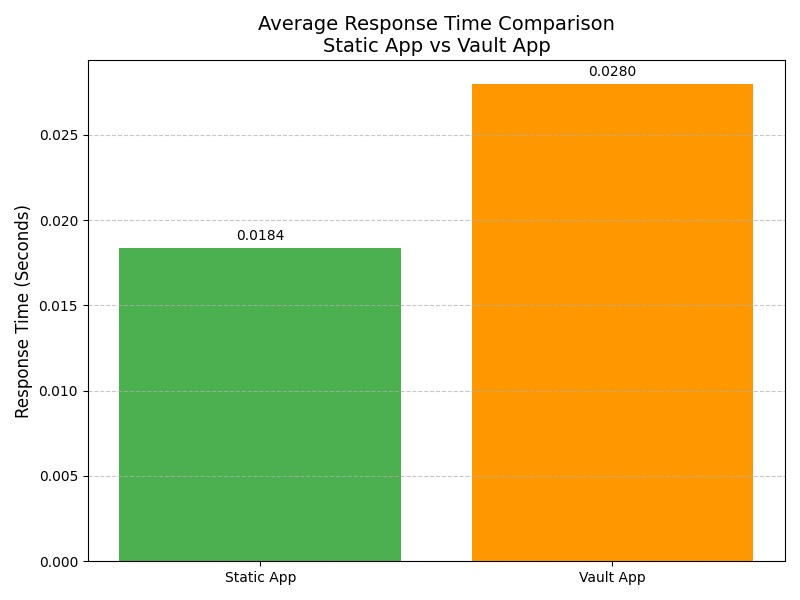
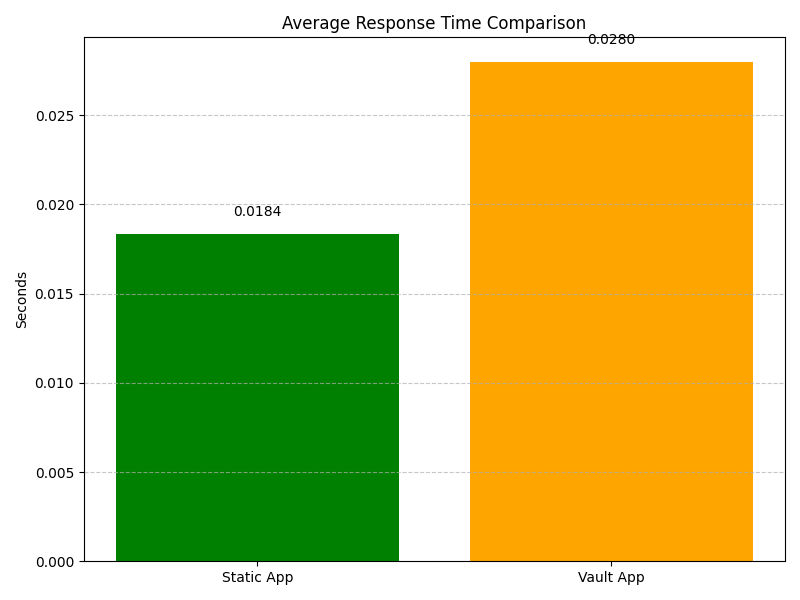
update plot metriks

diff --git a/plot_metrics.py b/plot_metrics.py
@@ -1,84 +1,237 @@
 import os
-import json
+import csv
 import glob
 import matplotlib.pyplot as plt
+import json
 
 DATA_DIR = 'data'
 RESULTS_DIR = os.path.join(DATA_DIR, 'results')
+PERFORMANCE_DIR = os.path.join(DATA_DIR, 'performance-results')
+SECURITY_DIR = os.path.join(DATA_DIR, 'security-results')
 
-# Buat folder results jika belum ada
 os.makedirs(RESULTS_DIR, exist_ok=True)
 
-def load_json(file_pattern):
-    files = glob.glob(os.path.join(DATA_DIR, file_pattern))
-    return [json.load(open(f)) for f in files]
+# Load CSV Benchmark File
+def load_benchmark_csv():
+    files = glob.glob(os.path.join(PERFORMANCE_DIR, 'benchmark_data_*.csv'))
+    if not files:
+        raise FileNotFoundError("❌ Benchmark CSV file not found.")
+    csv_file = sorted(files)[-1]  # ambil file terbaru
 
-# Load benchmark summaries
-benchmark_summaries = load_json('benchmark_summary_*.json')
-benchmark_data = benchmark_summaries[0]['statistics']
+    iterations = []
+    static_times = []
+    vault_times = []
+    overheads = []
+    overhead_percents = []
+    rotations = []
 
-# Plot overhead comparison
-def plot_overhead(data):
+    with open(csv_file, 'r') as f:
+        reader = csv.DictReader(f)
+        for row in reader:
+            iterations.append(int(row['iteration']))
+            static_times.append(float(row['static_time']))
+            vault_times.append(float(row['vault_time']))
+            overheads.append(float(row['overhead_seconds']))
+            overhead_percents.append(float(row['overhead_percentage']))
+
+            if row['rotation_performed'].lower() == 'true' and row['rotation_duration'] != 'null':
+                rotations.append(float(row['rotation_duration']))
+
+    return iterations, static_times, vault_times, overheads, overhead_percents, rotations
+
+# Plot Average Response Time & Overhead
+def plot_overhead(static_times, vault_times, overhead_percents):
+    static_avg = sum(static_times) / len(static_times)
+    vault_avg = sum(vault_times) / len(vault_times)
+    overhead_avg = sum(overhead_percents) / len(overhead_percents)
+
+    # Bar chart average response time
     apps = ['Static App', 'Vault App']
-    avg_times = [data['static_app']['avg'], data['vault_app']['avg']]
+    avg_times = [static_avg, vault_avg]
 
-    plt.figure(figsize=(6,4))
-    plt.bar(apps, avg_times, color=['green', 'orange'])
+    plt.figure(figsize=(8, 6))
+    bars = plt.bar(apps, avg_times, color=['green', 'orange'])
     plt.title('Average Response Time Comparison')
     plt.ylabel('Seconds')
+    plt.grid(axis='y', linestyle='--', alpha=0.7)
+
+    for bar in bars:
+        yval = bar.get_height()
+        plt.text(bar.get_x() + bar.get_width()/2, yval + 0.001, f'{yval:.4f}', ha='center', fontsize=10)
+
     plt.tight_layout()
     plt.savefig(os.path.join(RESULTS_DIR, 'avg_response_time.png'))
     plt.close()
 
     # Overhead %
-    plt.figure(figsize=(6,4))
-    overhead = data['overhead']['percentage']
-    plt.bar(['Overhead'], [overhead['avg']], color='red')
+    plt.figure(figsize=(8, 6))
+    plt.bar(['Overhead'], [overhead_avg], color='red')
     plt.title('Vault Overhead (%)')
     plt.ylabel('Percentage')
+    plt.grid(axis='y', linestyle='--', alpha=0.7)
+    plt.text(0, overhead_avg + 1, f'{overhead_avg:.2f}%', ha='center', fontsize=12)
+
     plt.tight_layout()
     plt.savefig(os.path.join(RESULTS_DIR, 'vault_overhead_percentage.png'))
     plt.close()
 
-# Load detailed results for rotation
-benchmark_details = load_json('benchmark_results_*.json')
-rotations = [r['rotation']['duration_seconds'] for r in benchmark_details[0]['results'] if r['rotation']['performed']]
+# Plot Line Chart per Iteration
+def plot_line_chart(iterations, static_times, vault_times):
+    plt.figure(figsize=(12, 6))
+    plt.plot(iterations, static_times, label='Static App', color='green', marker='o')
+    plt.plot(iterations, vault_times, label='Vault App', color='orange', marker='x')
+    plt.title('Response Time per Iteration')
+    plt.xlabel('Iteration')
+    plt.ylabel('Response Time (Seconds)')
+    plt.legend()
+    plt.grid(True, linestyle='--', alpha=0.7)
+    plt.tight_layout()
+    plt.savefig(os.path.join(RESULTS_DIR, 'response_time_per_iteration.png'))
+    plt.close()
 
+# Plot Histogram Distribusi
+def plot_histogram(static_times, vault_times):
+    plt.figure(figsize=(12, 6))
+    plt.hist(static_times, bins=15, alpha=0.7, label='Static App', color='green')
+    plt.hist(vault_times, bins=15, alpha=0.7, label='Vault App', color='orange')
+    plt.title('Response Time Distribution')
+    plt.xlabel('Response Time (Seconds)')
+    plt.ylabel('Frequency')
+    plt.legend()
+    plt.grid(True, linestyle='--', alpha=0.7)
+    plt.tight_layout()
+    plt.savefig(os.path.join(RESULTS_DIR, 'response_time_distribution.png'))
+    plt.close()
+
+# Plot Rotation Time
 def plot_rotation(rotations):
     if not rotations:
         print("No rotation data found.")
         return
-    plt.figure(figsize=(8,4))
-    plt.plot(range(1, len(rotations)+1), rotations, marker='o', linestyle='--')
-    plt.title('Vault Credential Rotation Time')
-    plt.xlabel('Iteration')
-    plt.ylabel('Duration (seconds)')
-    plt.grid(True)
+
+    plt.figure(figsize=(10, 6))
+    plt.plot(range(1, len(rotations) + 1), rotations, marker='o', linestyle='-', color='#2196F3')
+    plt.title('Vault Credential Rotation Time per 10 Iterations')
+    plt.xlabel('Rotation Event')
+    plt.ylabel('Rotation Duration (Seconds)')
+    plt.grid(True, linestyle='--', alpha=0.7)
+
+    for idx, val in enumerate(rotations, 1):
+        plt.text(idx, val + 0.002, f'{val:.4f}', ha='center', fontsize=10)
+
     plt.tight_layout()
     plt.savefig(os.path.join(RESULTS_DIR, 'vault_rotation_time.png'))
     plt.close()
 
-# Gitleaks report comparison
-def count_secrets(file):
-    with open(file) as f:
-        return len(json.load(f))
-
+# Gitleaks report comparison with latest file
 def plot_gitleaks():
-    static = count_secrets(os.path.join(DATA_DIR, 'static-secrets-gitleaks-report.json'))
-    vault = count_secrets(os.path.join(DATA_DIR, 'vault-secrets-gitleaks-report.json'))
-    
-    plt.figure(figsize=(6,4))
-    plt.bar(['Static Secrets', 'Vault Secrets'], [static, vault], color=['crimson', 'blue'])
+    static_files = glob.glob(os.path.join(SECURITY_DIR, 'static-secrets-gitleaks-report_*.json'))
+    vault_files = glob.glob(os.path.join(SECURITY_DIR, 'vault-secrets-gitleaks-report_*.json'))
+
+    if not static_files:
+        print("⚠ Static secrets Gitleaks report not found.")
+        static = 0
+    else:
+        static_file = sorted(static_files)[-1]
+        static = count_secrets(static_file)
+
+    if not vault_files:
+        print("⚠ Vault secrets Gitleaks report not found.")
+        vault = 0
+    else:
+        vault_file = sorted(vault_files)[-1]
+        vault = count_secrets(vault_file)
+
+    plt.figure(figsize=(6, 4))
+    bars = plt.bar(['Static Secrets', 'Vault Secrets'], [static, vault], color=['crimson', 'blue'])
     plt.title('Secrets Leak Detected (Gitleaks)')
     plt.ylabel('Count')
+    plt.grid(axis='y', linestyle='--', alpha=0.7)
+
+    for bar in bars:
+        yval = bar.get_height()
+        plt.text(bar.get_x() + bar.get_width()/2, yval + 0.05, f'{yval}', ha='center', fontsize=12)
+
     plt.tight_layout()
     plt.savefig(os.path.join(RESULTS_DIR, 'secrets_leak_comparison.png'))
     plt.close()
 
-# Run all plots
-plot_overhead(benchmark_data)
+def count_secrets(file):
+    if not os.path.exists(file):
+        print(f"⚠ File not found: {file}. Assuming 0 secrets leaked.")
+        return 0
+    with open(file) as f:
+        return len(json.load(f))
+    
+def generate_markdown_summary(static_times, vault_times, overhead_percents, rotations, static_leaks, vault_leaks):
+    static_avg = sum(static_times) / len(static_times)
+    vault_avg = sum(vault_times) / len(vault_times)
+    overhead_avg = sum(overhead_percents) / len(overhead_percents)
+
+    summary_file = os.path.join(RESULTS_DIR, 'benchmark_summary.md')
+    with open(summary_file, 'w') as f:
+        f.write(f"# Vault Dynamic Secrets Performance Report\n\n")
+        f.write(f"**Test Summary Date:** {get_current_time()}\n\n")
+
+        f.write(f"## Key Metrics\n")
+        f.write(f"- Static Secrets Avg Response Time: **{static_avg:.4f} s**\n")
+        f.write(f"- Vault Secrets Avg Response Time: **{vault_avg:.4f} s**\n")
+        f.write(f"- Vault Overhead: **{overhead_avg:.2f} %**\n\n")
+
+        if rotations:
+            f.write(f"## Vault Rotation Metrics\n")
+            f.write(f"- Avg Rotation Duration: **{sum(rotations)/len(rotations):.4f} s**\n")
+            f.write(f"- Total Rotations: **{len(rotations)} times**\n\n")
+        else:
+            f.write(f"## Vault Rotation Metrics\n")
+            f.write(f"- No rotations detected in this benchmark.\n\n")
+
+        f.write(f"## Gitleaks Report\n")
+        f.write(f"- Static Secrets Leaks: **{static_leaks}**\n")
+        f.write(f"- Vault Secrets Leaks: **{vault_leaks}**\n\n")
+
+        f.write(f"## Conclusion\n")
+        f.write(f"- Vault improves security by eliminating static secrets from the application source code.\n")
+        f.write(f"- The performance overhead introduced by Vault is acceptable based on the benchmark results.\n")
+        f.write(f"- Credential rotation is efficient and does not require service restarts.\n")
+
+    print(f"📄 Benchmark summary saved to: {summary_file}")
+
+def get_current_time():
+    from datetime import datetime
+    return datetime.now().strftime('%Y-%m-%d %H:%M:%S')
+
+
+# Main execution
+iterations, static_times, vault_times, overheads, overhead_percents, rotations = load_benchmark_csv()
+
+plot_overhead(static_times, vault_times, overhead_percents)
+plot_line_chart(iterations, static_times, vault_times)
+plot_histogram(static_times, vault_times)
 plot_rotation(rotations)
+
+# Load Gitleaks files
+static_files = glob.glob(os.path.join(SECURITY_DIR, 'static-secrets-gitleaks-report_*.json'))
+vault_files = glob.glob(os.path.join(SECURITY_DIR, 'vault-secrets-gitleaks-report_*.json'))
+
+if not static_files:
+    print("⚠ Static secrets Gitleaks report not found.")
+    static_leaks = 0
+else:
+    static_file = sorted(static_files)[-1]
+    static_leaks = count_secrets(static_file)
+
+if not vault_files:
+    print("⚠ Vault secrets Gitleaks report not found.")
+    vault_leaks = 0
+else:
+    vault_file = sorted(vault_files)[-1]
+    vault_leaks = count_secrets(vault_file)
+
 plot_gitleaks()
 
-print(f"✅ Semua grafik disimpan di folder: {RESULTS_DIR}")
-# This script generates plots for benchmark metrics and saves them in the results directory.
+# Generate Markdown Report
+generate_markdown_summary(static_times, vault_times, overhead_percents, rotations, static_leaks, vault_leaks)
+
+print(f"✅ Semua grafik dan summary berhasil disimpan di folder: {RESULTS_DIR}")
+# End of script
